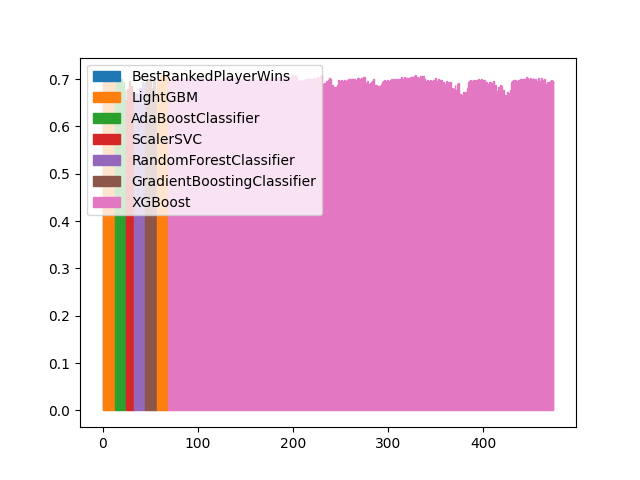
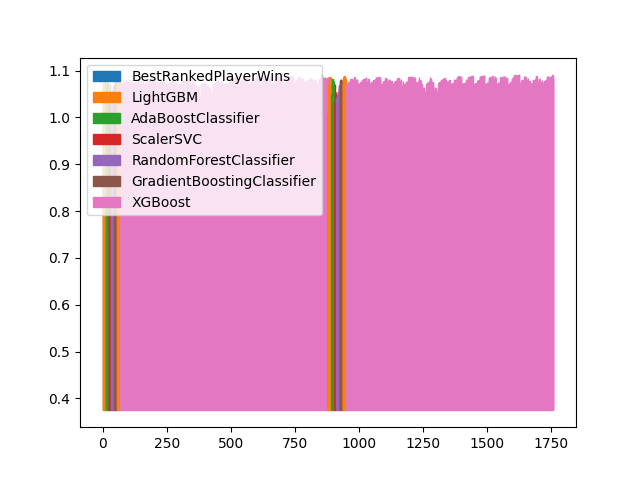
add model analysis towards players ranks

diff --git a/examples/results_reading/best_model.py b/examples/results_reading/best_model.py
@@ -2,6 +2,7 @@ import os
 
 import matplotlib.pyplot as plt
 from matplotlib.patches import Rectangle
+import numpy as np
 import pandas as pd
 
 df_results = pd.read_csv('../../results/20212022/results.csv', sep=";")
@@ -25,4 +26,62 @@ plt.legend()
 
 plt.xlabel('Rank Player 0 - Rank Player 1')
 plt.ylabel('Winner')
+plt.show()
+
+# Let's evaluate Symmetry
+symmetric_same_results = 0
+for i in range(int(len(best_results)/2)):
+    if best_results.iloc[2*i]["y_pred"] != best_results.iloc[2*i + 1]["y_pred"]:
+        symmetric_same_results +=1
+print(f"{(symmetric_same_results / (len(best_results) / 2))} Results are symmetrically predicted")
+
+rank_categories = [1, 10, 50, 100, 300, 1000, 9999]
+
+prediction_percentage = []
+
+for cat_1 in range(len(rank_categories) - 1):
+    lines = []
+    nb_matches_lines = []
+    for cat_2 in range(len(rank_categories) - 1):
+        sub_df = best_results.loc[best_results.Ranking_1 >= rank_categories[cat_1]].loc[
+            best_results.Ranking_1 < rank_categories[cat_1 + 1]
+        ]
+        sub_df = sub_df.loc[sub_df.Ranking_2 >= rank_categories[cat_2]].loc[
+            sub_df.Ranking_2 < rank_categories[cat_2 + 1]
+        ]
+        sub_df["best_rank"] = sub_df.apply(
+            lambda row: np.argmin([row["Ranking_1"], row["Ranking_2"]]), axis=1
+        )
+
+        if len(sub_df) > 0:
+            best_player_w_p = np.sum(
+                sub_df.Winner.values == sub_df.y_pred.values
+            ) / len(sub_df)
+
+        else:
+            best_player_w_p = 0
+        lines.append(best_player_w_p)
+        nb_matches_lines.append(len(sub_df) / 2)
+    prediction_percentage.append(lines)
+
+colors = ["purple", "blue", "cyan", "green", "yellow", "orange", "red"]
+fig, ax = plt.subplots()
+
+for i, val1 in enumerate(prediction_percentage):
+    for j, val2 in enumerate(val1):
+        color = colors[int(val2 * (len(colors) - 1))]
+        rect = plt.Rectangle((i, j), 1, 1, fc=color)
+        ax.add_patch(rect)
+        plt.text(i + 0.2, j + 0.35, np.round(val2 * 100, 2))
+
+for i in range(len(rank_categories)):
+    plt.plot([i, i], [0, len(rank_categories) - 1], c="k")
+    plt.plot([0, len(rank_categories) - 1], [i, i], c="k")
+
+plt.xticks(list(range(len(rank_categories))), labels=rank_categories)
+plt.yticks(list(range(len(rank_categories))), labels=rank_categories)
+plt.xlabel("Player 1 Rank Category")
+plt.ylabel("Player 2 Rank Category")
+plt.title("Precision Percentage")
+plt.savefig("precision_percentage_players_ranks.png")
 plt.show()
